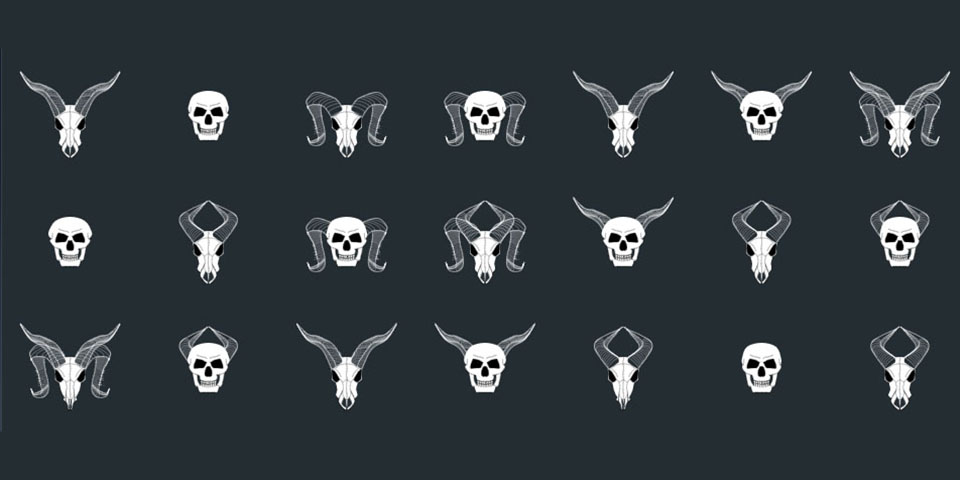
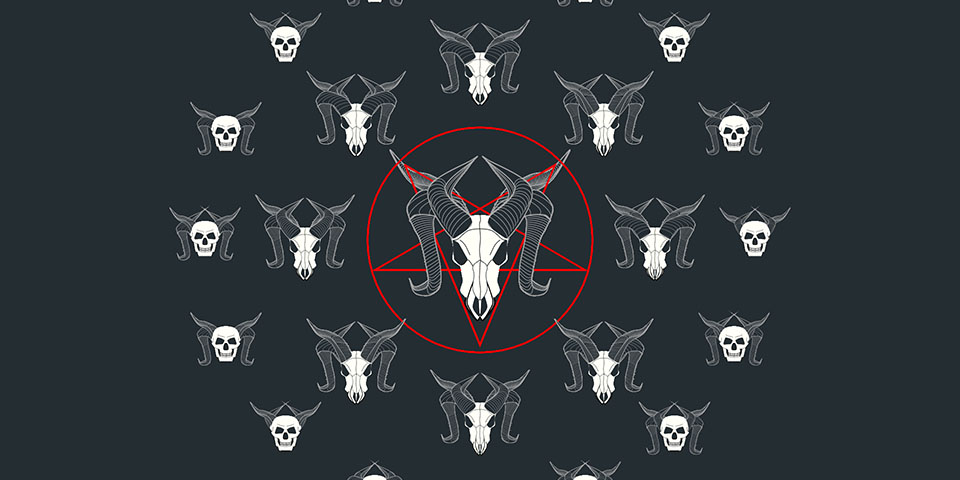
all in a days work

diff --git a/face_code.js b/face_code.js
@@ -396,7 +396,7 @@ curveVertex(Xcenter+6.2,Y1B+0.5);
 curveVertex(Xcenter+6,Y2B+1);
 curveVertex(Xcenter+6,Y2B+1);
 endShape();
-fill(0);
+fill(36,45,50);
 //eyeLeft
 beginShape();
 curveVertex(Xcenter-4,-4);
@@ -453,6 +453,7 @@ endShape();
  * thinness_value ranges from 0-100 and indicates how thin the face is
  */
 function drawFace2(horn, width, cheekbones) { 
+ 
   var WidthChanger = width;
   var cheekboneWidth = cheekbones;
   // noLoop();
@@ -603,7 +604,7 @@ fill(255, 255, 247);
   endShape();
 
 //EyeLeft
-fill(0);
+fill(36,45,50);
   beginShape();
     curveVertex(-2.7,0);
     curveVertex(-2.7,0);
@@ -710,13 +711,27 @@ fill(0);
  * mouth_value is how open the mouth is and should generally range from 0.5 to 10
  */
 function drawFace3() {
+  noFill();
+strokeWeight(0.05);
+stroke(255,0,0);
+ellipse(0,0,7.5);
+  beginShape();
+    vertex(-2.5,-2.5);
+    vertex(-2.5,-2.5);
+    vertex(0,3.5);
+    vertex(2.5,-2.5);
+    vertex(-3.5,1);
+    vertex(3.5,1);
+    vertex(-2.5,-2.5);
+    vertex(-2.5,-2.5);
+  endShape();
 
 }
 
 function drawHorn1()  {
   stroke(156, 156, 156);
   strokeWeight(0.1);
-  noFill();
+  fill(36,45,50);
   
 
   //HornSet1
@@ -727,7 +742,11 @@ function drawHorn1()  {
     curveVertex(-6.5,4.7);
     curveVertex(-5.2,4)
     curveVertex(-5.3,3);
-    curveVertex(-5.3,3);
+    curveVertex(-4,4.5)
+    curveVertex(-5,5.5);
+    curveVertex(-6.5,5.3);
+    curveVertex(-7,4);
+    curveVertex(-7,4);
   endShape();
 
    //Bottom
@@ -743,6 +762,8 @@ function drawHorn1()  {
    
     curveVertex(-5.2,4.5);
     curveVertex(-6.5,5);
+
+
     curveVertex(-7,4);
     curveVertex(-7,4);
 
@@ -750,11 +771,15 @@ function drawHorn1()  {
      curveVertex(-6.5,5.3);
     curveVertex(-5,5.5);
     curveVertex(-4,4.5);
+
    
     curveVertex(-4,2.5);
     curveVertex(-4.5,0);
     curveVertex(-4.6,-2.2);
     curveVertex(-3.5,-3);
+    curveVertex(-5,-3.5);
+    curveVertex(-7,-2);
+    curveVertex(-7,-2);
   endShape();
 
 
@@ -787,7 +812,11 @@ function drawHorn1()  {
     curveVertex(6.5,4.7);
     curveVertex(5.2,4)
     curveVertex(5.3,3);
-    curveVertex(5.3,3);
+    curveVertex(4,4.5)
+    curveVertex(5,5.5);
+    curveVertex(6.5,5.3);
+    curveVertex(7,4);
+    curveVertex(7,4);
   endShape();
   
    //Bottom
@@ -815,6 +844,9 @@ function drawHorn1()  {
     curveVertex(4.5,0);
     curveVertex(4.6,-2.2);
     curveVertex(3.5,-3);
+    curveVertex(5,-3.5);
+    curveVertex(7,-2);
+    curveVertex(7,-2);
   endShape();
   
 
@@ -991,8 +1023,7 @@ function drawHorn1()  {
   function drawHorn2(){
   stroke(156, 156, 156);
   strokeWeight(0.1);
-  noFill();
-  // fill(255, 255, 255);
+  fill(36,45,50);
 
       //HornSet2
   //left
@@ -1015,23 +1046,29 @@ function drawHorn1()  {
     curveVertex(-2.5,-2);
     
     curveVertex(-1.9,-0.5);
-    curveVertex(-1.9,-0.5);
+    curveVertex(-0.5,0);
+    curveVertex(-0.7,-1.5);
+    curveVertex(-0.7,-1.5);
 
-  endShape();
-
-  beginShape();
+    endShape();
+   beginShape();
     curveVertex(-2.75,-0.15);
     curveVertex(-2.75,-0.15);
     curveVertex(-4.5,-4);
-    // curveVertex(-5,-5);
+ 
     curveVertex(-7.2,-6);
     curveVertex(-9,-9);
-    curveVertex(-9,-9);
+    curveVertex(-7,-6);
+    curveVertex(-4.5,-5);
+    curveVertex(-2.5,-2);
+    curveVertex(-1.9,-0.5);
+    curveVertex(-2.75,-0.15);
+    curveVertex(-2.75,-0.15);
   endShape();
 
 
 //Right
-   beginShape();
+    beginShape();
 
     curveVertex(0.7,-1.5);
     curveVertex(0.7,-1.5);
@@ -1050,21 +1087,28 @@ function drawHorn1()  {
     curveVertex(2.5,-2);
     
     curveVertex(1.9,-0.5);
-    curveVertex(1.9,-0.5);
+    curveVertex(0.5,0);
+    curveVertex(0.7,-1.5);
+    curveVertex(0.7,-1.5);
 
-  endShape();
-
-  beginShape();
+    endShape();
+   beginShape();
     curveVertex(2.75,-0.15);
     curveVertex(2.75,-0.15);
     curveVertex(4.5,-4);
-    // curveVertex(-5,-5);
+ 
     curveVertex(7.2,-6);
     curveVertex(9,-9);
-    curveVertex(9,-9);
+    curveVertex(7,-6);
+    curveVertex(4.5,-5);
+    curveVertex(2.5,-2);
+    curveVertex(1.9,-0.5);
+    curveVertex(2.75,-0.15);
+    curveVertex(2.75,-0.15);
   endShape();
 
   //detail
+  noFill();
   strokeWeight(0.05);
   stroke(170, 170, 170);
 
@@ -1214,7 +1258,9 @@ function drawHorn1()  {
 function drawHorn3 (){
   stroke(156, 156, 156);
   strokeWeight(0.1);
-  noFill();
+
+  // noFill();
+  fill(36,45,50);
 
   // HornSet3
   // left
@@ -1224,19 +1270,47 @@ function drawHorn3 (){
     curveVertex(-1.2,-7.2);
     curveVertex(-2.9,-4.5);
     curveVertex(-0.9,-2.4);
-    curveVertex(-0.9,-2.4);
+    curveVertex(-1,-2.4);
+    curveVertex(-3.5,-5.2);
+    curveVertex(-0.6,-8);
+    curveVertex(-0.6,-8);
   endShape();
   beginShape();
+    curveVertex(-0.6,-8);
+    curveVertex(-0.6,-8);
+    curveVertex(-1.2,-7.2);
+    curveVertex(-2.9,-4.5);
+    curveVertex(-0.9,-2.4);
+    curveVertex(-0.9,-2.4);
+
     curveVertex(-1,-2.4);
     curveVertex(-1,-2.4);
     curveVertex(-3.5,-5.2);    
     curveVertex(-0.6,-8);
+
     curveVertex(-0.8,-8);
     curveVertex(-5.2,-5);
     curveVertex(-2.7,-0.15);
-    curveVertex(-2.7,-0.15);
+    curveVertex(-0.7,-1.8);
+    curveVertex(-0.9,-2.4);
+    
+    curveVertex(-2.9,-4.5);
+    curveVertex(-1.2,-7.2);
+    curveVertex(-0.6,-8);
+    curveVertex(-0.6,-8);
   endShape();
   //right
+    beginShape();
+    curveVertex(0.6,-8);
+    curveVertex(0.6,-8);
+    curveVertex(1.2,-7.2);
+    curveVertex(2.9,-4.5);
+    curveVertex(0.9,-2.4);
+    curveVertex(1,-2.4);
+    curveVertex(3.5,-5.2);
+    curveVertex(0.6,-8);
+    curveVertex(0.6,-8);
+    endShape();
    beginShape();
     curveVertex(0.6,-8);
     curveVertex(0.6,-8);
@@ -1244,8 +1318,7 @@ function drawHorn3 (){
     curveVertex(2.9,-4.5);
     curveVertex(0.9,-2.4);
     curveVertex(0.9,-2.4);
-  endShape();
-  beginShape();
+
     curveVertex(1,-2.4);
     curveVertex(1,-2.4);
     curveVertex(3.5,-5.2);    
@@ -1253,13 +1326,20 @@ function drawHorn3 (){
     curveVertex(0.8,-8);
     curveVertex(5.2,-5);
     curveVertex(2.7,-0.15);
-    curveVertex(2.7,-0.15);
+    curveVertex(0.7,-1.8);
+    curveVertex(0.9,-2.4);
+    
+    curveVertex(2.9,-4.5);
+    curveVertex(1.2,-7.2);
+    curveVertex(0.6,-8);
+    curveVertex(0.6,-8);
   endShape();
 
   //details
   //left
   stroke(170, 170, 170);
   strokeWeight(0.05);
+  noFill();
 
     beginShape();
     curveVertex(-0.6,-8);

diff --git a/arrangement.js b/arrangement.js
@@ -9,7 +9,7 @@ let curRandomSeed = 0;
 let lastSwapTime = 0;
 const millisPerSwap = 5000;
 let angle = 0;
-let angle2 =  2;
+let angle2 =  0;
 function setup () {
   // create the drawing canvas, save the canvas element
   let main_canvas = createCanvas(canvasWidth, canvasHeight);
@@ -48,6 +48,7 @@ function draw () {
 
   // clear screen
   background(bg_color1);
+ 
   noStroke();
 
   // draw a 7x4 grid of faces
@@ -57,16 +58,24 @@ function draw () {
   let total2 = 16;  
   for(let i=0; i<8; i++) {
     for(let j=0; j<16; j++) {
-  
+   
   let x=175*cos(degrees(angle)) + width/2;
   let y=175*sin(degrees(angle)) + height/2;
-
+  
   let x1=275*cos(degrees(angle2)) + width/2;
   let y1=275*sin(degrees(angle2)) + height/2;
     angle = Math.PI*2/total*i;
     angle2 = Math.PI*2/total2*j;
-      noLoop();
-      if (i == 1) {         
+   
+      if (i == 0) {
+        push();
+        translate(canvasWidth/2,canvasHeight/2);
+        scale(30.0);
+        drawFace3();
+        pop();
+      }
+
+      if (i == 0) { 
         push();
           translate(canvasWidth/2,canvasHeight/2);
           scale(10.0);
@@ -88,10 +97,10 @@ function draw () {
           pop();
         }
         
-      if (i > 0 || i <= 8) {
-        // all other faces*      
+      if (i >= 1 || i <= 8) {
+            
         push();
-        translate(x, y);        
+        translate(x, y); 
         scale(w/25, h/25);                      
         if((i+j)%2 == 0) {                 
           let horns = int(focusedRandom(0, 6));

diff --git a/README.md b/README.md
@@ -2,6 +2,9 @@
 
 
 ----------------------------------------------------------------------------------
+#sept 11 - Horns are completed filled to blend to the background and show shape from the detailing lines that i drew, i changed the colours slightly so the faces look nicer. Arranged the majority of the arrangement just a couple of details to deal with like rotating so they all face the center skull and somehow need to stop them drawing all variations at once. 
+----------------------------------------------------------------------------------
+
 #sept 10 - Horn detailings are finished, need to complete arrangement and move horn positioning for the human skull.
 ----------------------------------------------------------------------------------
 #9th sept - I have made a pattern to fill the horn outlines out of curves and curvevertexs
